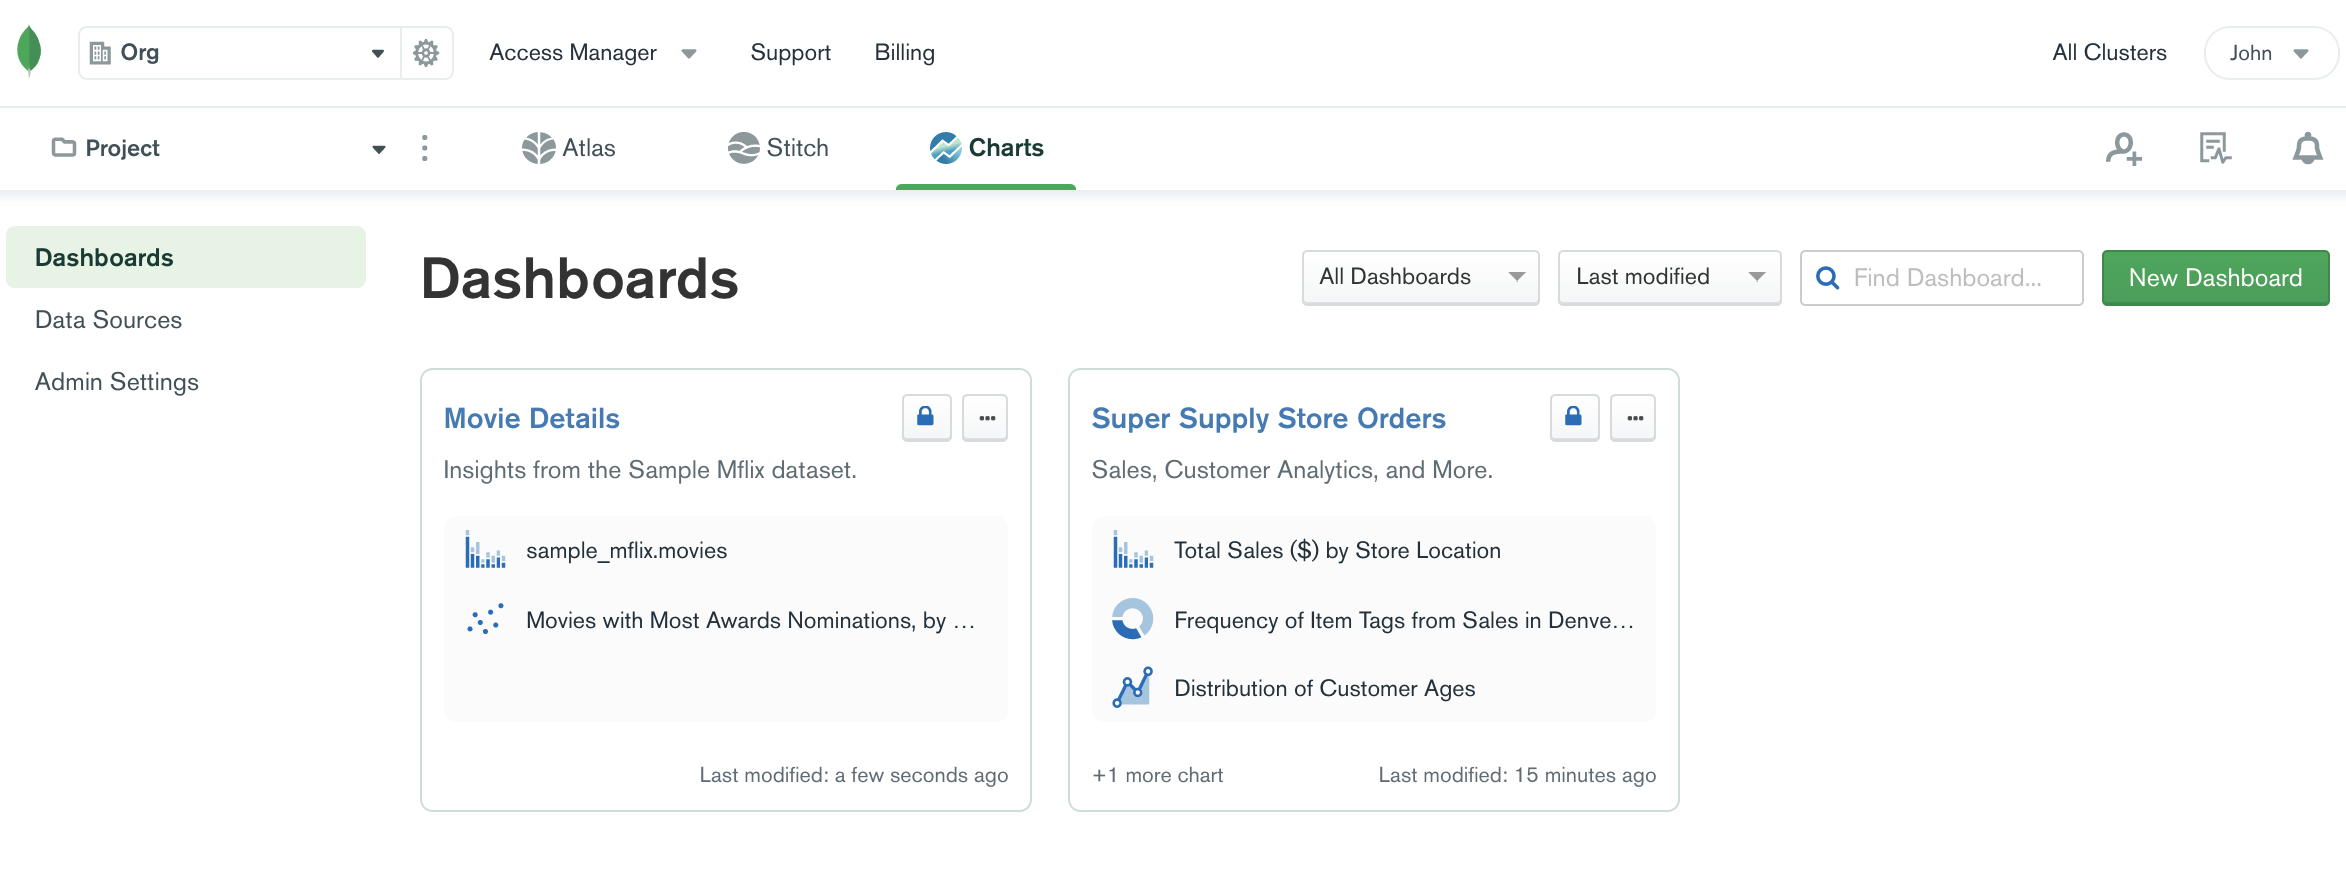
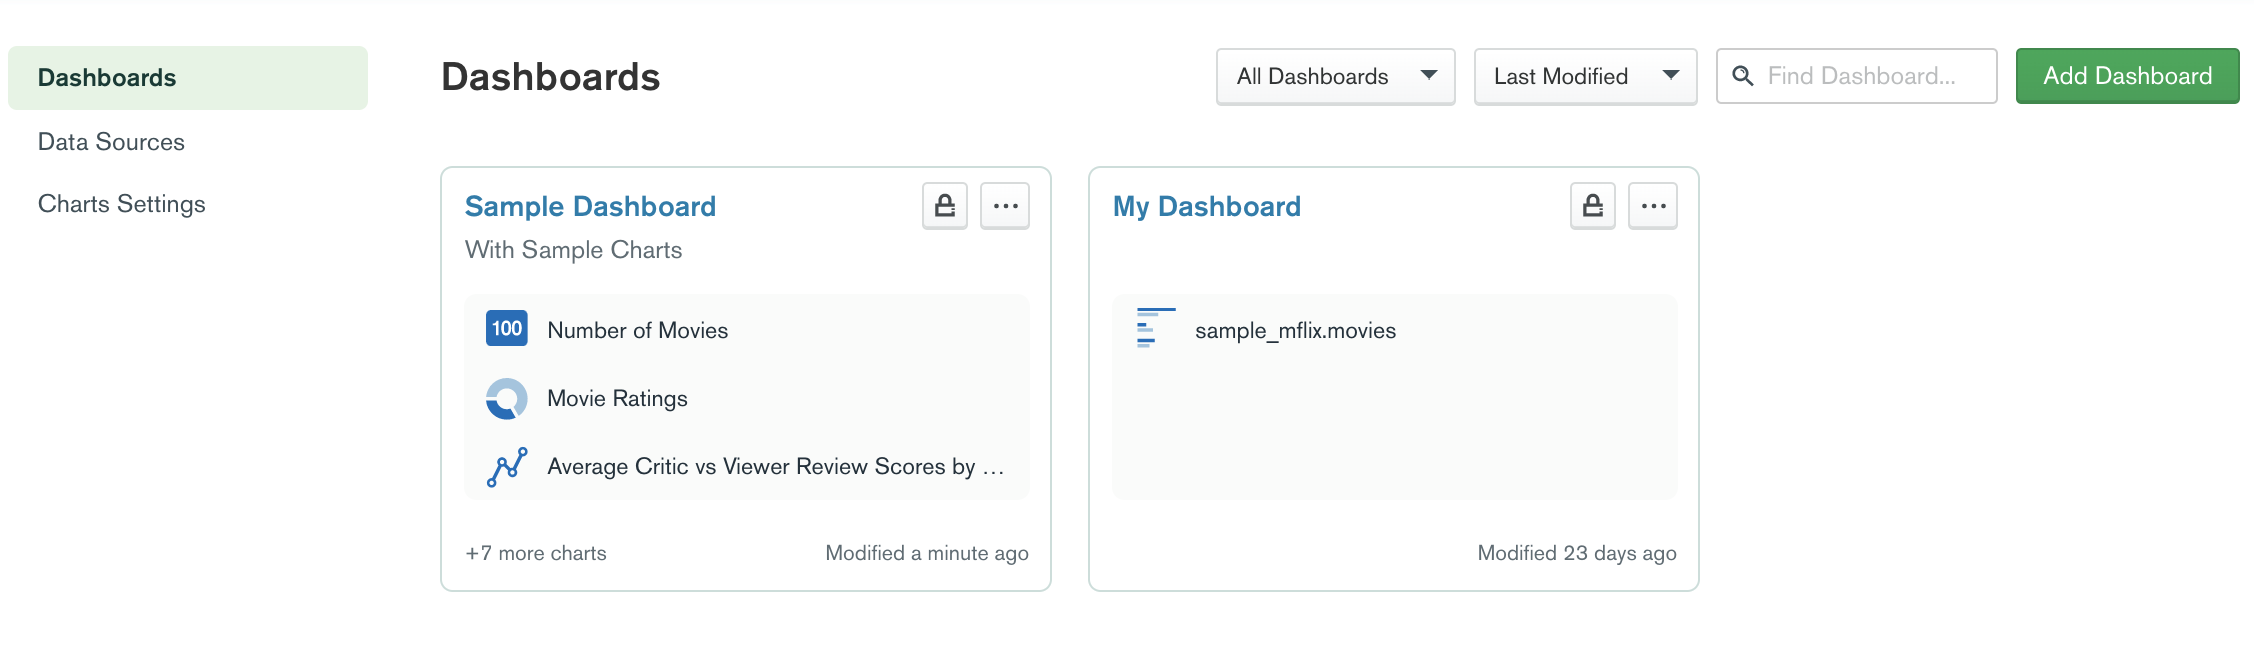
(DOCSP-10922): As a user, I can see the Charts Settings page (#373)
* (DOCSP-10922): first pass changing admin settings to charts settings

* (DOCSP-10922): updating screenshots

diff --git a/source/includes/charts-settings-project-owner.rst b/source/includes/charts-settings-project-owner.rst
@@ -1,0 +1,5 @@
+.. note::
+
+   Only users with the :atlas:`Project Owner
+   </reference/user-roles/#project-roles>` can see this section on the 
+   :guilabel:`Charts Settings` page.

diff --git a/source/includes/charts-settings-all-users.rst b/source/includes/charts-settings-all-users.rst
@@ -1,0 +1,4 @@
+.. note::
+
+   Users with any :atlas:`role </reference/user-roles/>` can see this
+   section on the :guilabel:`Charts Settings` page.
